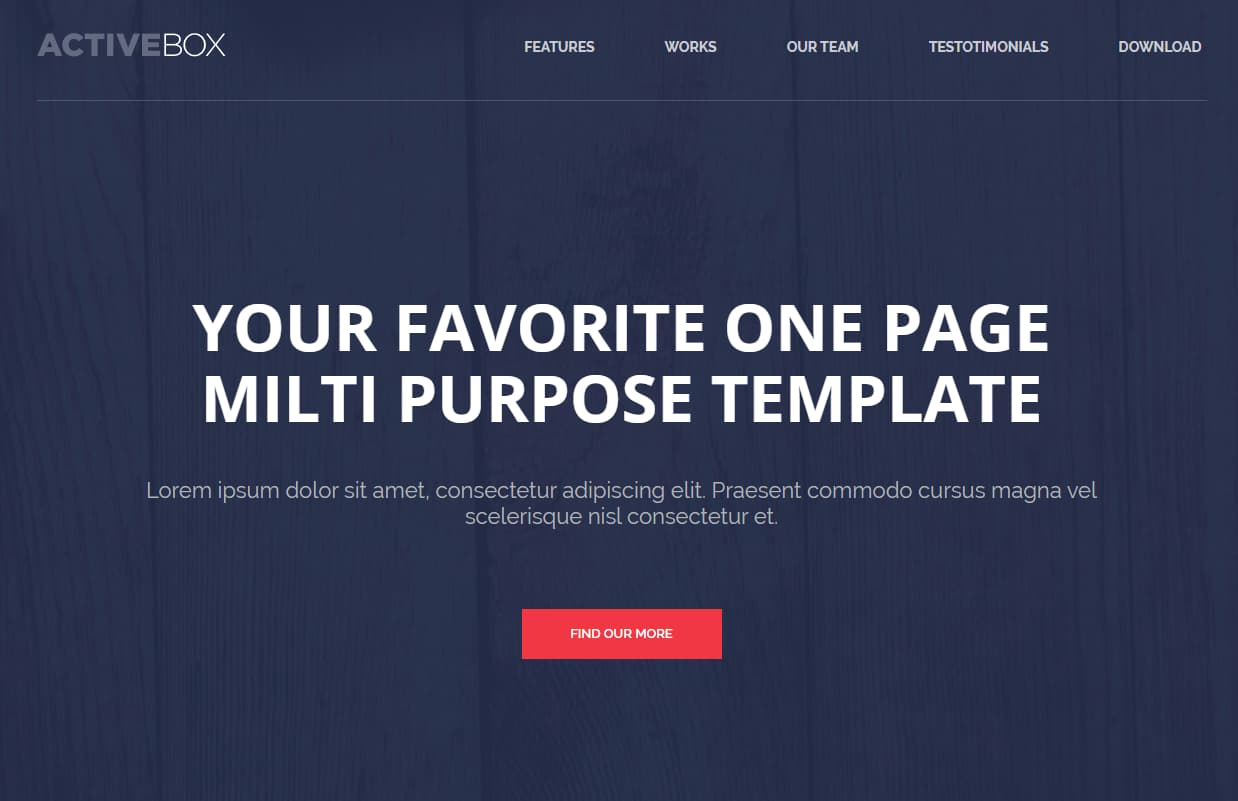
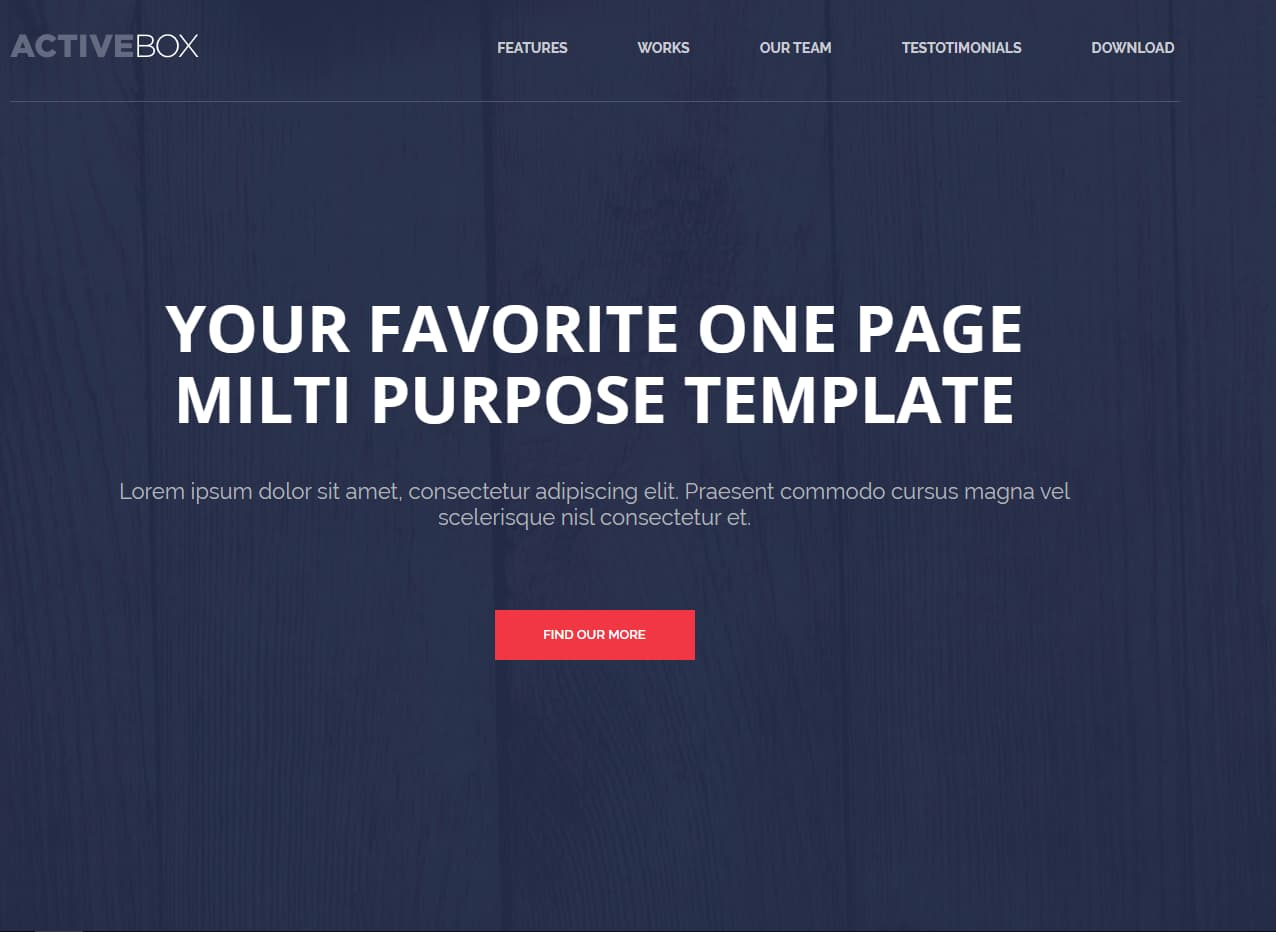
add responsive

diff --git a/Resume/index.html b/Resume/index.html
@@ -88,16 +88,16 @@
                     href="https://www.facebook.com/andrew.opanasyuk"
                     target="_blank"
                     class="icon__link link"
-                    ><i class="fab fa-facebook-square fb"></i
-                  ></a>
+                    ><i class="fab fa-facebook-square fb"></i>
+                  </a>
                 </div>
                 <div class="icon__item">
                   <a
                     target="_blank"
                     href="https://www.instagram.com/opan85_/?hl=ru"
                     class="icon__link link"
-                    ><i class="fab fa-instagram inst"></i
-                  ></a>
+                    ><i class="fab fa-instagram inst"></i>
+                  </a>
                 </div>
               </div>
             </div>
@@ -135,7 +135,7 @@
       </section>
 
       <section id="works" class="works"  >
-        <div class="container">
+        <div class="container works__container">
           <h2 class="section__title works__title title">Мои работы</h2>
           <div class="works__inner">
             <div class="works__item">
@@ -203,6 +203,27 @@
         </div>
         <!--Container-->
       </section>
+
+      <footer id="contacts" class="footer">
+        <div class="container">
+          <h2 class="footer__title title">Контакты</h2>
+          <div class="footer__inner">
+            <div class="footer__item">
+              <div class="footer__social-icon">
+                <i class="far fa-envelope "></i>
+                <span class="footer__info">opan33@gmail.com</span>
+              </div>
+              <div class="footer__social-icon">
+                <i class="fas fa-mobile-alt "></i>
+                <span class="footer__info">+380939918100</span>
+              </div>
+              <div class="footer__social-icon"> 
+                <p class="copyright"><a href="https://www.facebook.com/andrew.opanasyuk" target="_blank" class="copyright__link">	&#169; Andriy Opanasiuk 2019.</a></p>
+              </div>
+            </div>
+          </div><!--footer__inner-->
+        </div> <!--container-->
+      </footer>
     </main>
   </body>
 </html>

diff --git a/Resume/css/media.css b/Resume/css/media.css
@@ -1,0 +1,112 @@
+@media (max-width: 1440px) {
+  .header {
+    background-image: url(../img/header_bg/3.3.jpg);
+  }
+}
+
+@media (max-width: 1024px) {
+  .header {
+    background-image: url(../img/header_bg/2.2.jpg);
+  }
+  .menu__link {
+    color: #ececec;
+  }
+
+  .works__item {
+    height: 200px;
+  }
+
+  .footer__title {
+    text-align: center;
+  }
+
+  .footer__inner {
+    display: flex;
+    justify-content: center;
+  }
+}
+
+@media (max-width: 900px) {
+  .works__inner {
+    grid-template-columns: repeat(2, 1fr);
+  }
+
+  .works__item {
+    max-width: 100%;
+  }
+}
+
+@media (max-width: 816px) {
+  /*Only samsung S8+, iphoneX rotate*/
+  .header__content {
+    top: 30%;
+    max-width: 100%;
+  }
+}
+
+@media (max-width: 768px) {
+  .header {
+    background-image: url(../img/header_bg/4.4.jpg);
+  }
+
+  .menu__link {
+    color: #4c4c4c;
+  }
+}
+
+@media (max-width: 600px) {
+  .logo {
+    display: none;
+  }
+
+  .header__inner {
+    justify-content: center;
+  }
+
+  .section__inner {
+    grid-template-columns: 1fr;
+    margin-bottom: 80px;
+  }
+
+  .works__container {
+    padding: 0;
+  }
+
+  .works__inner {
+    grid-template-columns: 1fr;
+    justify-items: center;
+    grid-row-gap: 5px;
+    padding-bottom: 40px;
+  }
+
+  .works__item {
+    max-width: 600px;
+    height: auto;
+  }
+}
+
+@media (max-width: 425px) {
+  .header {
+    background-image: url(../img/header_bg/5.5.jpg);
+  }
+
+  .header__inner {
+    display: none;
+  }
+
+  .works__inner {
+    padding-bottom: 0;
+  }
+
+  .works__title {
+    padding-bottom: 40px;
+    text-align: center;
+    font-size: 40px;
+  }
+
+  .footer__title {
+    font-size: 40px;
+    padding-top: 50px;
+    margin-bottom: 40px;
+  }
+}

diff --git a/Resume/css/styles.css b/Resume/css/styles.css
@@ -33,7 +33,7 @@ body {
 .container {
   max-width: 1200px;
   width: 100%;
-  padding: 0 5px;
+  padding: 0 10px;
   margin: 0 auto;
 }
 
@@ -47,6 +47,10 @@ body {
   justify-content: space-between;
   /* align-items: center; */
   padding-top: 20px;
+}
+
+.logo {
+  visibility: hidden;
 }
 
 .logo__link {
@@ -125,7 +129,6 @@ body {
 /* Section about-me */
 
 .section__title {
-  /* text-align: center; */
   font-size: 50px;
   font-weight: 700;
   position: relative;
@@ -205,17 +208,54 @@ body {
   display: grid;
   grid-template-columns: repeat(3, 1fr);
   grid-gap: 5px;
-  padding-bottom: 50px;
+  padding-bottom: 150px;
 }
 
 .works__item {
   max-width: 400px;
-  height: 200px;
+  height: 250px;
   overflow: hidden;
 }
 
 .works__img {
   display: block;
   width: 100%;
-  object-fit: fill;
+  object-fit: cover;
+}
+
+/* Footer */
+
+.footer {
+  background-color: #4c4c4c;
+}
+
+.footer__title {
+  font-size: 50px;
+  color: #ececec;
+  font-weight: 700;
+  padding-top: 100px;
+  margin-bottom: 50px;
+}
+
+.footer__inner {
+  padding-bottom: 100px;
+}
+
+.footer__info {
+  font-size: 18px;
+  font-weight: 300;
+  font-style: italic;
+  padding-left: 20px;
+}
+
+.footer__social-icon,
+.copyright__link {
+  padding-bottom: 30px;
+  color: #ececec;
+  font-style: italic;
+}
+
+.fa-mobile-alt,
+.fa-envelope {
+  font-size: 20px;
 }
